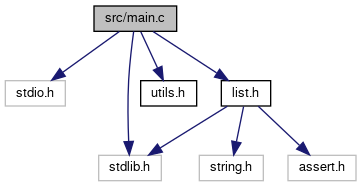
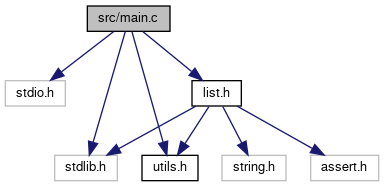
deploy: 990bebdba1529d52a58c7875b1290cd62b9eeb2c

diff --git a/list_8h_source.html b/list_8h_source.html
@@ -76,95 +76,99 @@ $(function() {
 <div class="line"><a name="l00015"></a><span class="lineno">   15</span>&#160;<span class="preprocessor">#include &lt;stdlib.h&gt;</span></div>
 <div class="line"><a name="l00016"></a><span class="lineno">   16</span>&#160;<span class="preprocessor">#include &lt;string.h&gt;</span></div>
 <div class="line"><a name="l00017"></a><span class="lineno">   17</span>&#160;<span class="preprocessor">#include &lt;assert.h&gt;</span></div>
-<div class="line"><a name="l00018"></a><span class="lineno">   18</span>&#160; </div>
-<div class="line"><a name="l00019"></a><span class="lineno">   19</span>&#160;<span class="preprocessor">#define INT_MIN -2147483647</span></div>
-<div class="line"><a name="l00020"></a><span class="lineno">   20</span>&#160; </div>
-<div class="line"><a name="l00022"></a><span class="lineno"><a class="line" href="structpack.html">   22</a></span>&#160;<span class="keyword">typedef</span> <span class="keyword">struct </span><a class="code" href="structpack.html">pack</a>{</div>
-<div class="line"><a name="l00023"></a><span class="lineno">   23</span>&#160;    <span class="keywordtype">int</span> avail; <span class="comment">//available?</span></div>
-<div class="line"><a name="l00024"></a><span class="lineno">   24</span>&#160;    <span class="keyword">struct </span><a class="code" href="structpack.html">pack</a>* prev;</div>
-<div class="line"><a name="l00025"></a><span class="lineno">   25</span>&#160;    <span class="keyword">struct </span><a class="code" href="structpack.html">pack</a>* next;</div>
-<div class="line"><a name="l00026"></a><span class="lineno">   26</span>&#160;    <span class="keywordtype">int</span> ID;</div>
-<div class="line"><a name="l00027"></a><span class="lineno"><a class="line" href="list_8h.html#a3586525e728a7be39766f22a4db66cb9">   27</a></span>&#160;} <a class="code" href="list_8h.html#a3586525e728a7be39766f22a4db66cb9">pack</a>;</div>
-<div class="line"><a name="l00028"></a><span class="lineno">   28</span>&#160; </div>
-<div class="line"><a name="l00029"></a><span class="lineno"><a class="line" href="structList.html">   29</a></span>&#160;<span class="keyword">typedef</span> <span class="keyword">struct </span><a class="code" href="structList.html">List</a>{</div>
-<div class="line"><a name="l00030"></a><span class="lineno">   30</span>&#160;    <a class="code" href="structpack.html">pack</a>* first;</div>
-<div class="line"><a name="l00031"></a><span class="lineno">   31</span>&#160;    <a class="code" href="structpack.html">pack</a>* last;</div>
-<div class="line"><a name="l00032"></a><span class="lineno">   32</span>&#160;} <a class="code" href="structList.html">List</a>;</div>
-<div class="line"><a name="l00033"></a><span class="lineno">   33</span>&#160; </div>
-<div class="line"><a name="l00034"></a><span class="lineno"><a class="line" href="structhnode.html">   34</a></span>&#160;<span class="keyword">typedef</span> <span class="keyword">struct </span><a class="code" href="structhnode.html">hnode</a>{</div>
-<div class="line"><a name="l00035"></a><span class="lineno">   35</span>&#160;    <span class="keyword">struct </span><a class="code" href="structhnode.html">hnode</a>* parent;</div>
-<div class="line"><a name="l00036"></a><span class="lineno">   36</span>&#160;    <span class="keyword">struct </span><a class="code" href="structhnode.html">hnode</a>* leaves[2]; </div>
-<div class="line"><a name="l00037"></a><span class="lineno">   37</span>&#160;    <a class="code" href="structpack.html">pack</a>* key;</div>
-<div class="line"><a name="l00038"></a><span class="lineno">   38</span>&#160;} <a class="code" href="structhnode.html">hnode</a>;</div>
-<div class="line"><a name="l00039"></a><span class="lineno">   39</span>&#160; </div>
-<div class="line"><a name="l00041"></a><span class="lineno"><a class="line" href="structprodLine.html">   41</a></span>&#160;<span class="keyword">typedef</span> <span class="keyword">struct</span>{</div>
-<div class="line"><a name="l00042"></a><span class="lineno">   42</span>&#160;    <a class="code" href="structList.html">List</a> list;</div>
-<div class="line"><a name="l00043"></a><span class="lineno">   43</span>&#160;    <a class="code" href="structhnode.html">hnode</a>* heap;</div>
-<div class="line"><a name="l00044"></a><span class="lineno">   44</span>&#160;    <span class="keywordtype">int</span> avail;</div>
-<div class="line"><a name="l00045"></a><span class="lineno">   45</span>&#160;} <a class="code" href="structprodLine.html">prodLine</a>;</div>
-<div class="line"><a name="l00046"></a><span class="lineno">   46</span>&#160; </div>
-<div class="line"><a name="l00047"></a><span class="lineno"><a class="line" href="structpackData.html">   47</a></span>&#160;<span class="keyword">typedef</span> <span class="keyword">struct</span>{</div>
-<div class="line"><a name="l00048"></a><span class="lineno">   48</span>&#160;    <span class="keywordtype">int</span> N_Package;</div>
-<div class="line"><a name="l00049"></a><span class="lineno">   49</span>&#160;    <span class="keywordtype">int</span> N_Lines;</div>
-<div class="line"><a name="l00050"></a><span class="lineno">   50</span>&#160;    <a class="code" href="structprodLine.html">prodLine</a>* lines;</div>
-<div class="line"><a name="l00051"></a><span class="lineno">   51</span>&#160;    <a class="code" href="structpack.html">pack</a>* packs;</div>
-<div class="line"><a name="l00052"></a><span class="lineno">   52</span>&#160;} <a class="code" href="structpackData.html">packData</a>;</div>
-<div class="line"><a name="l00053"></a><span class="lineno">   53</span>&#160; </div>
+<div class="line"><a name="l00018"></a><span class="lineno">   18</span>&#160;<span class="preprocessor">#include &quot;<a class="code" href="utils_8h.html">utils.h</a>&quot;</span></div>
+<div class="line"><a name="l00019"></a><span class="lineno">   19</span>&#160; </div>
+<div class="line"><a name="l00020"></a><span class="lineno">   20</span>&#160;<span class="preprocessor">#define INT_MIN -2147483647</span></div>
+<div class="line"><a name="l00021"></a><span class="lineno">   21</span>&#160; </div>
+<div class="line"><a name="l00023"></a><span class="lineno"><a class="line" href="structpack.html">   23</a></span>&#160;<span class="keyword">typedef</span> <span class="keyword">struct </span><a class="code" href="structpack.html">pack</a>{</div>
+<div class="line"><a name="l00024"></a><span class="lineno">   24</span>&#160;    <span class="keywordtype">int</span> avail; <span class="comment">//available?</span></div>
+<div class="line"><a name="l00025"></a><span class="lineno">   25</span>&#160;    <span class="keyword">struct </span><a class="code" href="structpack.html">pack</a>* prev;</div>
+<div class="line"><a name="l00026"></a><span class="lineno">   26</span>&#160;    <span class="keyword">struct </span><a class="code" href="structpack.html">pack</a>* next;</div>
+<div class="line"><a name="l00027"></a><span class="lineno">   27</span>&#160;    <span class="keywordtype">int</span> ID;</div>
+<div class="line"><a name="l00028"></a><span class="lineno"><a class="line" href="list_8h.html#a3586525e728a7be39766f22a4db66cb9">   28</a></span>&#160;} <a class="code" href="list_8h.html#a3586525e728a7be39766f22a4db66cb9">pack</a>;</div>
+<div class="line"><a name="l00029"></a><span class="lineno">   29</span>&#160; </div>
+<div class="line"><a name="l00030"></a><span class="lineno"><a class="line" href="structList.html">   30</a></span>&#160;<span class="keyword">typedef</span> <span class="keyword">struct </span><a class="code" href="structList.html">List</a>{</div>
+<div class="line"><a name="l00031"></a><span class="lineno">   31</span>&#160;    <a class="code" href="structpack.html">pack</a>* first;</div>
+<div class="line"><a name="l00032"></a><span class="lineno">   32</span>&#160;    <a class="code" href="structpack.html">pack</a>* last;</div>
+<div class="line"><a name="l00033"></a><span class="lineno">   33</span>&#160;} <a class="code" href="structList.html">List</a>;</div>
+<div class="line"><a name="l00034"></a><span class="lineno">   34</span>&#160; </div>
+<div class="line"><a name="l00035"></a><span class="lineno"><a class="line" href="structhnode.html">   35</a></span>&#160;<span class="keyword">typedef</span> <span class="keyword">struct </span><a class="code" href="structhnode.html">hnode</a>{</div>
+<div class="line"><a name="l00036"></a><span class="lineno">   36</span>&#160;    <span class="keyword">struct </span><a class="code" href="structhnode.html">hnode</a>* parent;</div>
+<div class="line"><a name="l00037"></a><span class="lineno">   37</span>&#160;    <span class="keyword">struct </span><a class="code" href="structhnode.html">hnode</a>* leaves[2]; </div>
+<div class="line"><a name="l00038"></a><span class="lineno">   38</span>&#160;    <a class="code" href="structpack.html">pack</a>* key;</div>
+<div class="line"><a name="l00039"></a><span class="lineno">   39</span>&#160;} <a class="code" href="structhnode.html">hnode</a>;</div>
+<div class="line"><a name="l00040"></a><span class="lineno">   40</span>&#160; </div>
+<div class="line"><a name="l00042"></a><span class="lineno"><a class="line" href="structprodLine.html">   42</a></span>&#160;<span class="keyword">typedef</span> <span class="keyword">struct</span>{</div>
+<div class="line"><a name="l00043"></a><span class="lineno">   43</span>&#160;    <a class="code" href="structList.html">List</a> list;</div>
+<div class="line"><a name="l00044"></a><span class="lineno">   44</span>&#160;    <a class="code" href="structhnode.html">hnode</a>* heap;</div>
+<div class="line"><a name="l00045"></a><span class="lineno">   45</span>&#160;    <span class="keywordtype">int</span> avail;</div>
+<div class="line"><a name="l00046"></a><span class="lineno">   46</span>&#160;} <a class="code" href="structprodLine.html">prodLine</a>;</div>
+<div class="line"><a name="l00047"></a><span class="lineno">   47</span>&#160; </div>
+<div class="line"><a name="l00048"></a><span class="lineno"><a class="line" href="structpackData.html">   48</a></span>&#160;<span class="keyword">typedef</span> <span class="keyword">struct</span>{</div>
+<div class="line"><a name="l00049"></a><span class="lineno">   49</span>&#160;    <span class="keywordtype">int</span> N_Package;</div>
+<div class="line"><a name="l00050"></a><span class="lineno">   50</span>&#160;    <span class="keywordtype">int</span> N_Lines;</div>
+<div class="line"><a name="l00051"></a><span class="lineno">   51</span>&#160;    <a class="code" href="structprodLine.html">prodLine</a>* lines;</div>
+<div class="line"><a name="l00052"></a><span class="lineno">   52</span>&#160;    <a class="code" href="structpack.html">pack</a>* packs;</div>
+<div class="line"><a name="l00053"></a><span class="lineno">   53</span>&#160;} <a class="code" href="structpackData.html">packData</a>;</div>
 <div class="line"><a name="l00054"></a><span class="lineno">   54</span>&#160; </div>
-<div class="line"><a name="l00055"></a><span class="lineno">   55</span>&#160;<span class="comment">// Initiation and Deletion</span></div>
-<div class="line"><a name="l00056"></a><span class="lineno">   56</span>&#160; </div>
-<div class="line"><a name="l00064"></a><span class="lineno">   64</span>&#160;<a class="code" href="structpackData.html">packData</a> <a class="code" href="list_8h.html#aa11f23d0e48c1d0788c6a8930a252b9c">init_packData</a>(<span class="keywordtype">int</span> n, <span class="keywordtype">int</span> l);</div>
-<div class="line"><a name="l00065"></a><span class="lineno">   65</span>&#160;<span class="keywordtype">void</span> kill_packData(<a class="code" href="structpackData.html">packData</a>);</div>
-<div class="line"><a name="l00066"></a><span class="lineno">   66</span>&#160; </div>
-<div class="line"><a name="l00067"></a><span class="lineno">   67</span>&#160;<span class="comment">// Data management</span></div>
-<div class="line"><a name="l00068"></a><span class="lineno">   68</span>&#160;<a class="code" href="structpack.html">pack</a> PushPack(<a class="code" href="structpackData.html">packData</a>, <span class="keywordtype">int</span> i);</div>
-<div class="line"><a name="l00069"></a><span class="lineno">   69</span>&#160;<a class="code" href="structpack.html">pack</a> MergeLines(<a class="code" href="structpackData.html">packData</a>, <span class="keywordtype">int</span> dst, <span class="keywordtype">int</span> src);</div>
-<div class="line"><a name="l00070"></a><span class="lineno">   70</span>&#160; </div>
-<div class="line"><a name="l00071"></a><span class="lineno">   71</span>&#160;<span class="comment">//Pop</span></div>
-<div class="line"><a name="l00072"></a><span class="lineno">   72</span>&#160;<a class="code" href="structpack.html">pack</a> PopFirstPack(<a class="code" href="structpackData.html">packData</a>, <span class="keywordtype">int</span> i);</div>
-<div class="line"><a name="l00073"></a><span class="lineno">   73</span>&#160;<a class="code" href="structpack.html">pack</a> PopLastPack(<a class="code" href="structpackData.html">packData</a>, <span class="keywordtype">int</span> i);</div>
-<div class="line"><a name="l00074"></a><span class="lineno">   74</span>&#160;<a class="code" href="structpack.html">pack</a> PopMaxPack(<a class="code" href="structpackData.html">packData</a>, <span class="keywordtype">int</span> i);</div>
-<div class="line"><a name="l00075"></a><span class="lineno">   75</span>&#160; </div>
-<div class="line"><a name="l00076"></a><span class="lineno">   76</span>&#160;<span class="comment">// Peak Data</span></div>
-<div class="line"><a name="l00077"></a><span class="lineno">   77</span>&#160;<a class="code" href="structpack.html">pack</a> PeakFirstPack(<a class="code" href="structpackData.html">packData</a>, <span class="keywordtype">int</span> i);</div>
-<div class="line"><a name="l00078"></a><span class="lineno">   78</span>&#160;<a class="code" href="structpack.html">pack</a> PeakLastPack(<a class="code" href="structpackData.html">packData</a>, <span class="keywordtype">int</span> i);</div>
-<div class="line"><a name="l00079"></a><span class="lineno">   79</span>&#160;<a class="code" href="structpack.html">pack</a> PeakMaxPack(<a class="code" href="structpackData.html">packData</a>, <span class="keywordtype">int</span> i);</div>
-<div class="line"><a name="l00080"></a><span class="lineno">   80</span>&#160; </div>
+<div class="line"><a name="l00055"></a><span class="lineno">   55</span>&#160; </div>
+<div class="line"><a name="l00056"></a><span class="lineno">   56</span>&#160;<span class="comment">// Initiation and Deletion</span></div>
+<div class="line"><a name="l00057"></a><span class="lineno">   57</span>&#160; </div>
+<div class="line"><a name="l00065"></a><span class="lineno">   65</span>&#160;<a class="code" href="structpackData.html">packData</a> <a class="code" href="list_8h.html#aa11f23d0e48c1d0788c6a8930a252b9c">init_packData</a>(<span class="keywordtype">int</span> n, <span class="keywordtype">int</span> l);</div>
+<div class="line"><a name="l00066"></a><span class="lineno">   66</span>&#160;<span class="keywordtype">void</span> kill_packData(<a class="code" href="structpackData.html">packData</a>);</div>
+<div class="line"><a name="l00067"></a><span class="lineno">   67</span>&#160; </div>
+<div class="line"><a name="l00068"></a><span class="lineno">   68</span>&#160;<span class="comment">// Data management</span></div>
+<div class="line"><a name="l00069"></a><span class="lineno">   69</span>&#160;<a class="code" href="structpack.html">pack</a> PushPack(<a class="code" href="structpackData.html">packData</a>, <span class="keywordtype">int</span> i);</div>
+<div class="line"><a name="l00070"></a><span class="lineno">   70</span>&#160;<a class="code" href="structpack.html">pack</a> MergeLines(<a class="code" href="structpackData.html">packData</a>, <span class="keywordtype">int</span> dst, <span class="keywordtype">int</span> src);</div>
+<div class="line"><a name="l00071"></a><span class="lineno">   71</span>&#160; </div>
+<div class="line"><a name="l00072"></a><span class="lineno">   72</span>&#160;<span class="comment">//Pop</span></div>
+<div class="line"><a name="l00073"></a><span class="lineno">   73</span>&#160;<a class="code" href="structpack.html">pack</a> PopFirstPack(<a class="code" href="structpackData.html">packData</a>, <span class="keywordtype">int</span> i);</div>
+<div class="line"><a name="l00074"></a><span class="lineno">   74</span>&#160;<a class="code" href="structpack.html">pack</a> PopLastPack(<a class="code" href="structpackData.html">packData</a>, <span class="keywordtype">int</span> i);</div>
+<div class="line"><a name="l00075"></a><span class="lineno">   75</span>&#160;<a class="code" href="structpack.html">pack</a> PopMaxPack(<a class="code" href="structpackData.html">packData</a>, <span class="keywordtype">int</span> i);</div>
+<div class="line"><a name="l00076"></a><span class="lineno">   76</span>&#160; </div>
+<div class="line"><a name="l00077"></a><span class="lineno">   77</span>&#160;<span class="comment">// Peak Data</span></div>
+<div class="line"><a name="l00078"></a><span class="lineno">   78</span>&#160;<a class="code" href="structpack.html">pack</a> PeakFirstPack(<a class="code" href="structpackData.html">packData</a>, <span class="keywordtype">int</span> i);</div>
+<div class="line"><a name="l00079"></a><span class="lineno">   79</span>&#160;<a class="code" href="structpack.html">pack</a> PeakLastPack(<a class="code" href="structpackData.html">packData</a>, <span class="keywordtype">int</span> i);</div>
+<div class="line"><a name="l00080"></a><span class="lineno">   80</span>&#160;<a class="code" href="structpack.html">pack</a> PeakMaxPack(<a class="code" href="structpackData.html">packData</a>, <span class="keywordtype">int</span> i);</div>
 <div class="line"><a name="l00081"></a><span class="lineno">   81</span>&#160; </div>
-<div class="line"><a name="l00082"></a><span class="lineno">   82</span>&#160;<span class="comment">// Heap operation</span></div>
-<div class="line"><a name="l00083"></a><span class="lineno">   83</span>&#160;<a class="code" href="structhnode.html">hnode</a>* _insertHeap(<a class="code" href="structhnode.html">hnode</a>* root, <a class="code" href="structpack.html">pack</a>*);</div>
-<div class="line"><a name="l00084"></a><span class="lineno">   84</span>&#160;<span class="keywordtype">int</span> _popMaxHeap(<a class="code" href="structhnode.html">hnode</a>* root);</div>
-<div class="line"><a name="l00085"></a><span class="lineno">   85</span>&#160;<span class="keywordtype">void</span> _mergeHeap(<a class="code" href="structhnode.html">hnode</a>* rootDst, <a class="code" href="structhnode.html">hnode</a>* rootSrc);</div>
-<div class="line"><a name="l00086"></a><span class="lineno">   86</span>&#160;<a class="code" href="structhnode.html">hnode</a>* create_node(<a class="code" href="structhnode.html">hnode</a>* parent, <a class="code" href="structpack.html">pack</a>* key);</div>
-<div class="line"><a name="l00088"></a><span class="lineno">   88</span>&#160;<span class="keywordtype">int</span> <a class="code" href="list_8h.html#a7afb1b709ad6d00cd41ac19e8cd9e148">_findNullLeave</a>(<a class="code" href="structhnode.html">hnode</a>* node);</div>
-<div class="line"><a name="l00089"></a><span class="lineno">   89</span>&#160;<span class="keywordtype">void</span> _killHeap(<a class="code" href="structhnode.html">hnode</a>* root);</div>
-<div class="line"><a name="l00090"></a><span class="lineno">   90</span>&#160; </div>
-<div class="line"><a name="l00091"></a><span class="lineno">   91</span>&#160;<span class="comment">//Linked list </span></div>
-<div class="line"><a name="l00092"></a><span class="lineno">   92</span>&#160; </div>
-<div class="line"><a name="l00093"></a><span class="lineno">   93</span>&#160;<span class="keywordtype">void</span> _insertlist(<a class="code" href="structList.html">List</a>*, <a class="code" href="structpack.html">pack</a>*);</div>
-<div class="line"><a name="l00094"></a><span class="lineno">   94</span>&#160;<span class="keywordtype">void</span> _mergelist(<a class="code" href="structList.html">List</a>* dst, <a class="code" href="structList.html">List</a>* src);</div>
-<div class="line"><a name="l00100"></a><span class="lineno">  100</span>&#160;<span class="keywordtype">int</span> <a class="code" href="list_8h.html#a41622136ec076e314e00e9fbe9512c61">_popFirst</a>(<a class="code" href="structList.html">List</a>*);</div>
-<div class="line"><a name="l00104"></a><span class="lineno">  104</span>&#160;<span class="keywordtype">int</span> <a class="code" href="list_8h.html#a97bf806736c5cf75cbc2b56814e66e2b">_popLast</a>(<a class="code" href="structList.html">List</a>*);</div>
-<div class="line"><a name="l00105"></a><span class="lineno">  105</span>&#160; </div>
-<div class="line"><a name="l00106"></a><span class="lineno">  106</span>&#160; </div>
-<div class="line"><a name="l00107"></a><span class="lineno">  107</span>&#160;<span class="comment">//Struct</span></div>
-<div class="line"><a name="l00108"></a><span class="lineno">  108</span>&#160;<a class="code" href="structpack.html">pack</a> getNullPack(<span class="keywordtype">void</span>);</div>
-<div class="line"><a name="l00109"></a><span class="lineno">  109</span>&#160;<a class="code" href="structprodLine.html">prodLine</a> getNullProdLine(<span class="keywordtype">void</span>);</div>
-<div class="line"><a name="l00110"></a><span class="lineno">  110</span>&#160; </div>
-<div class="line"><a name="l00111"></a><span class="lineno">  111</span>&#160; </div>
-<div class="line"><a name="l00112"></a><span class="lineno">  112</span>&#160; </div>
+<div class="line"><a name="l00082"></a><span class="lineno">   82</span>&#160; </div>
+<div class="line"><a name="l00083"></a><span class="lineno">   83</span>&#160;<span class="comment">// Heap operation</span></div>
+<div class="line"><a name="l00084"></a><span class="lineno">   84</span>&#160;<a class="code" href="structhnode.html">hnode</a>* _insertHeap(<a class="code" href="structhnode.html">hnode</a>* root, <a class="code" href="structpack.html">pack</a>*);</div>
+<div class="line"><a name="l00085"></a><span class="lineno">   85</span>&#160;<span class="keywordtype">int</span> _popMaxHeap(<a class="code" href="structhnode.html">hnode</a>* root);</div>
+<div class="line"><a name="l00086"></a><span class="lineno">   86</span>&#160;<span class="keywordtype">void</span> _mergeHeap(<a class="code" href="structhnode.html">hnode</a>* rootDst, <a class="code" href="structhnode.html">hnode</a>* rootSrc);</div>
+<div class="line"><a name="l00087"></a><span class="lineno">   87</span>&#160;<a class="code" href="structhnode.html">hnode</a>* create_node(<a class="code" href="structhnode.html">hnode</a>* parent, <a class="code" href="structpack.html">pack</a>* key);</div>
+<div class="line"><a name="l00089"></a><span class="lineno">   89</span>&#160;<span class="keywordtype">int</span> <a class="code" href="list_8h.html#a7afb1b709ad6d00cd41ac19e8cd9e148">_findNullLeave</a>(<a class="code" href="structhnode.html">hnode</a>* node);</div>
+<div class="line"><a name="l00090"></a><span class="lineno">   90</span>&#160;<span class="keywordtype">int</span> _findActLeave(<a class="code" href="structhnode.html">hnode</a>* node);</div>
+<div class="line"><a name="l00091"></a><span class="lineno">   91</span>&#160;<span class="keywordtype">void</span> _swapPackageHeap(<a class="code" href="structhnode.html">hnode</a>* a, <a class="code" href="structhnode.html">hnode</a>* b);</div>
+<div class="line"><a name="l00092"></a><span class="lineno">   92</span>&#160;<span class="keywordtype">void</span> _killHeap(<a class="code" href="structhnode.html">hnode</a>* root);</div>
+<div class="line"><a name="l00093"></a><span class="lineno">   93</span>&#160; </div>
+<div class="line"><a name="l00094"></a><span class="lineno">   94</span>&#160;<span class="comment">//Linked list </span></div>
+<div class="line"><a name="l00095"></a><span class="lineno">   95</span>&#160; </div>
+<div class="line"><a name="l00096"></a><span class="lineno">   96</span>&#160;<span class="keywordtype">void</span> _insertlist(<a class="code" href="structList.html">List</a>*, <a class="code" href="structpack.html">pack</a>*);</div>
+<div class="line"><a name="l00097"></a><span class="lineno">   97</span>&#160;<span class="keywordtype">void</span> _mergelist(<a class="code" href="structList.html">List</a>* dst, <a class="code" href="structList.html">List</a>* src);</div>
+<div class="line"><a name="l00103"></a><span class="lineno">  103</span>&#160;<span class="keywordtype">int</span> <a class="code" href="list_8h.html#a41622136ec076e314e00e9fbe9512c61">_popFirst</a>(<a class="code" href="structList.html">List</a>*);</div>
+<div class="line"><a name="l00107"></a><span class="lineno">  107</span>&#160;<span class="keywordtype">int</span> <a class="code" href="list_8h.html#a97bf806736c5cf75cbc2b56814e66e2b">_popLast</a>(<a class="code" href="structList.html">List</a>*);</div>
+<div class="line"><a name="l00108"></a><span class="lineno">  108</span>&#160; </div>
+<div class="line"><a name="l00109"></a><span class="lineno">  109</span>&#160; </div>
+<div class="line"><a name="l00110"></a><span class="lineno">  110</span>&#160;<span class="comment">//Struct</span></div>
+<div class="line"><a name="l00111"></a><span class="lineno">  111</span>&#160;<a class="code" href="structpack.html">pack</a> getNullPack(<span class="keywordtype">void</span>);</div>
+<div class="line"><a name="l00112"></a><span class="lineno">  112</span>&#160;<a class="code" href="structprodLine.html">prodLine</a> getNullProdLine(<span class="keywordtype">void</span>);</div>
 <div class="line"><a name="l00113"></a><span class="lineno">  113</span>&#160; </div>
-<div class="line"><a name="l00114"></a><span class="lineno">  114</span>&#160;<span class="preprocessor">#endif </span></div>
+<div class="line"><a name="l00114"></a><span class="lineno">  114</span>&#160; </div>
+<div class="line"><a name="l00115"></a><span class="lineno">  115</span>&#160; </div>
+<div class="line"><a name="l00116"></a><span class="lineno">  116</span>&#160; </div>
+<div class="line"><a name="l00117"></a><span class="lineno">  117</span>&#160;<span class="preprocessor">#endif </span></div>
 <div class="ttc" id="alist_8h_html_a3586525e728a7be39766f22a4db66cb9"><div class="ttname"><a href="list_8h.html#a3586525e728a7be39766f22a4db66cb9">pack</a></div><div class="ttdeci">struct pack pack</div></div>
-<div class="ttc" id="alist_8h_html_a41622136ec076e314e00e9fbe9512c61"><div class="ttname"><a href="list_8h.html#a41622136ec076e314e00e9fbe9512c61">_popFirst</a></div><div class="ttdeci">int _popFirst(List *)</div><div class="ttdoc">Pop first item. Set popped item.avail (pack) to zero.</div><div class="ttdef"><b>Definition:</b> list.c:179</div></div>
-<div class="ttc" id="alist_8h_html_a7afb1b709ad6d00cd41ac19e8cd9e148"><div class="ttname"><a href="list_8h.html#a7afb1b709ad6d00cd41ac19e8cd9e148">_findNullLeave</a></div><div class="ttdeci">int _findNullLeave(hnode *node)</div><div class="ttdef"><b>Definition:</b> list.c:106</div></div>
-<div class="ttc" id="alist_8h_html_a97bf806736c5cf75cbc2b56814e66e2b"><div class="ttname"><a href="list_8h.html#a97bf806736c5cf75cbc2b56814e66e2b">_popLast</a></div><div class="ttdeci">int _popLast(List *)</div><div class="ttdoc">Similar to _popFirst .</div><div class="ttdef"><b>Definition:</b> list.c:202</div></div>
+<div class="ttc" id="alist_8h_html_a41622136ec076e314e00e9fbe9512c61"><div class="ttname"><a href="list_8h.html#a41622136ec076e314e00e9fbe9512c61">_popFirst</a></div><div class="ttdeci">int _popFirst(List *)</div><div class="ttdoc">Pop first item. Set popped item.avail (pack) to zero.</div><div class="ttdef"><b>Definition:</b> list.c:221</div></div>
+<div class="ttc" id="alist_8h_html_a7afb1b709ad6d00cd41ac19e8cd9e148"><div class="ttname"><a href="list_8h.html#a7afb1b709ad6d00cd41ac19e8cd9e148">_findNullLeave</a></div><div class="ttdeci">int _findNullLeave(hnode *node)</div><div class="ttdef"><b>Definition:</b> list.c:130</div></div>
+<div class="ttc" id="alist_8h_html_a97bf806736c5cf75cbc2b56814e66e2b"><div class="ttname"><a href="list_8h.html#a97bf806736c5cf75cbc2b56814e66e2b">_popLast</a></div><div class="ttdeci">int _popLast(List *)</div><div class="ttdoc">Similar to _popFirst .</div><div class="ttdef"><b>Definition:</b> list.c:244</div></div>
 <div class="ttc" id="alist_8h_html_aa11f23d0e48c1d0788c6a8930a252b9c"><div class="ttname"><a href="list_8h.html#aa11f23d0e48c1d0788c6a8930a252b9c">init_packData</a></div><div class="ttdeci">packData init_packData(int n, int l)</div><div class="ttdoc">Initiate a package management problem.</div><div class="ttdef"><b>Definition:</b> list.c:3</div></div>
-<div class="ttc" id="astructList_html"><div class="ttname"><a href="structList.html">List</a></div><div class="ttdef"><b>Definition:</b> list.h:29</div></div>
-<div class="ttc" id="astructhnode_html"><div class="ttname"><a href="structhnode.html">hnode</a></div><div class="ttdef"><b>Definition:</b> list.h:34</div></div>
-<div class="ttc" id="astructpackData_html"><div class="ttname"><a href="structpackData.html">packData</a></div><div class="ttdef"><b>Definition:</b> list.h:47</div></div>
-<div class="ttc" id="astructpack_html"><div class="ttname"><a href="structpack.html">pack</a></div><div class="ttdef"><b>Definition:</b> list.h:22</div></div>
-<div class="ttc" id="astructprodLine_html"><div class="ttname"><a href="structprodLine.html">prodLine</a></div><div class="ttdef"><b>Definition:</b> list.h:41</div></div>
+<div class="ttc" id="astructList_html"><div class="ttname"><a href="structList.html">List</a></div><div class="ttdef"><b>Definition:</b> list.h:30</div></div>
+<div class="ttc" id="astructhnode_html"><div class="ttname"><a href="structhnode.html">hnode</a></div><div class="ttdef"><b>Definition:</b> list.h:35</div></div>
+<div class="ttc" id="astructpackData_html"><div class="ttname"><a href="structpackData.html">packData</a></div><div class="ttdef"><b>Definition:</b> list.h:48</div></div>
+<div class="ttc" id="astructpack_html"><div class="ttname"><a href="structpack.html">pack</a></div><div class="ttdef"><b>Definition:</b> list.h:23</div></div>
+<div class="ttc" id="astructprodLine_html"><div class="ttname"><a href="structprodLine.html">prodLine</a></div><div class="ttdef"><b>Definition:</b> list.h:42</div></div>
+<div class="ttc" id="autils_8h_html"><div class="ttname"><a href="utils_8h.html">utils.h</a></div><div class="ttdoc">General Utilities for C language.</div></div>
 </div><!-- fragment --></div><!-- contents -->
 <!-- start footer part -->
 <hr class="footer"/><address class="footer"><small>

diff --git a/list_8h.html b/list_8h.html
@@ -77,15 +77,17 @@ $(function() {
 <div class="textblock"><code>#include &lt;stdlib.h&gt;</code><br />
 <code>#include &lt;string.h&gt;</code><br />
 <code>#include &lt;assert.h&gt;</code><br />
+<code>#include &quot;<a class="el" href="utils_8h_source.html">utils.h</a>&quot;</code><br />
 </div><div class="textblock"><div class="dynheader">
 Include dependency graph for list.h:</div>
 <div class="dyncontent">
 <div class="center"><img src="list_8h__incl.png" border="0" usemap="#asrc_2list_8h" alt=""/></div>
 <map name="asrc_2list_8h" id="asrc_2list_8h">
-<area shape="rect" title=" " alt="" coords="89,5,160,32"/>
+<area shape="rect" title=" " alt="" coords="135,5,205,32"/>
 <area shape="rect" title=" " alt="" coords="5,80,68,107"/>
 <area shape="rect" title=" " alt="" coords="93,80,157,107"/>
 <area shape="rect" title=" " alt="" coords="181,80,249,107"/>
+<area shape="rect" href="utils_8h.html" title="General Utilities for C language." alt="" coords="274,80,330,107"/>
 </map>
 </div>
 </div><div class="textblock"><div class="dynheader">
@@ -177,6 +179,12 @@ void&#160;</td><td class="memItemRight" valign="bottom"><b>_mergeHeap</b> (<a cl
 <tr class="separator:aac72842d1ea31e89fe098a7dbf7e10b2"><td class="memSeparator" colspan="2">&#160;</td></tr>
 <tr class="memitem:a7afb1b709ad6d00cd41ac19e8cd9e148"><td class="memItemLeft" align="right" valign="top">int&#160;</td><td class="memItemRight" valign="bottom"><a class="el" href="list_8h.html#a7afb1b709ad6d00cd41ac19e8cd9e148">_findNullLeave</a> (<a class="el" href="structhnode.html">hnode</a> *node)</td></tr>
 <tr class="separator:a7afb1b709ad6d00cd41ac19e8cd9e148"><td class="memSeparator" colspan="2">&#160;</td></tr>
+<tr class="memitem:a15b48bf3e7ef2bc54604aa6705ddbcea"><td class="memItemLeft" align="right" valign="top"><a id="a15b48bf3e7ef2bc54604aa6705ddbcea"></a>
+int&#160;</td><td class="memItemRight" valign="bottom"><b>_findActLeave</b> (<a class="el" href="structhnode.html">hnode</a> *node)</td></tr>
+<tr class="separator:a15b48bf3e7ef2bc54604aa6705ddbcea"><td class="memSeparator" colspan="2">&#160;</td></tr>
+<tr class="memitem:a6087b5874d80953b0e8c6ad2dea18e91"><td class="memItemLeft" align="right" valign="top"><a id="a6087b5874d80953b0e8c6ad2dea18e91"></a>
+void&#160;</td><td class="memItemRight" valign="bottom"><b>_swapPackageHeap</b> (<a class="el" href="structhnode.html">hnode</a> *a, <a class="el" href="structhnode.html">hnode</a> *b)</td></tr>
+<tr class="separator:a6087b5874d80953b0e8c6ad2dea18e91"><td class="memSeparator" colspan="2">&#160;</td></tr>
 <tr class="memitem:a1b1e9d4025ceb5094c788a86e22d1da4"><td class="memItemLeft" align="right" valign="top"><a id="a1b1e9d4025ceb5094c788a86e22d1da4"></a>
 void&#160;</td><td class="memItemRight" valign="bottom"><b>_killHeap</b> (<a class="el" href="structhnode.html">hnode</a> *root)</td></tr>
 <tr class="separator:a1b1e9d4025ceb5094c788a86e22d1da4"><td class="memSeparator" colspan="2">&#160;</td></tr>

diff --git a/test__list_8h_source.html b/test__list_8h_source.html
@@ -126,10 +126,10 @@ $(function() {
 <div class="line"><a name="l00055"></a><span class="lineno">   55</span>&#160; </div>
 <div class="line"><a name="l00056"></a><span class="lineno">   56</span>&#160;<span class="preprocessor">#endif</span></div>
 <div class="ttc" id="alist_8h_html"><div class="ttname"><a href="list_8h.html">list.h</a></div></div>
-<div class="ttc" id="alist_8h_html_a41622136ec076e314e00e9fbe9512c61"><div class="ttname"><a href="list_8h.html#a41622136ec076e314e00e9fbe9512c61">_popFirst</a></div><div class="ttdeci">int _popFirst(List *)</div><div class="ttdoc">Pop first item. Set popped item.avail (pack) to zero.</div><div class="ttdef"><b>Definition:</b> list.c:179</div></div>
-<div class="ttc" id="alist_8h_html_a97bf806736c5cf75cbc2b56814e66e2b"><div class="ttname"><a href="list_8h.html#a97bf806736c5cf75cbc2b56814e66e2b">_popLast</a></div><div class="ttdeci">int _popLast(List *)</div><div class="ttdoc">Similar to _popFirst .</div><div class="ttdef"><b>Definition:</b> list.c:202</div></div>
+<div class="ttc" id="alist_8h_html_a41622136ec076e314e00e9fbe9512c61"><div class="ttname"><a href="list_8h.html#a41622136ec076e314e00e9fbe9512c61">_popFirst</a></div><div class="ttdeci">int _popFirst(List *)</div><div class="ttdoc">Pop first item. Set popped item.avail (pack) to zero.</div><div class="ttdef"><b>Definition:</b> list.c:221</div></div>
+<div class="ttc" id="alist_8h_html_a97bf806736c5cf75cbc2b56814e66e2b"><div class="ttname"><a href="list_8h.html#a97bf806736c5cf75cbc2b56814e66e2b">_popLast</a></div><div class="ttdeci">int _popLast(List *)</div><div class="ttdoc">Similar to _popFirst .</div><div class="ttdef"><b>Definition:</b> list.c:244</div></div>
 <div class="ttc" id="alist_8h_html_aa11f23d0e48c1d0788c6a8930a252b9c"><div class="ttname"><a href="list_8h.html#aa11f23d0e48c1d0788c6a8930a252b9c">init_packData</a></div><div class="ttdeci">packData init_packData(int n, int l)</div><div class="ttdoc">Initiate a package management problem.</div><div class="ttdef"><b>Definition:</b> list.c:3</div></div>
-<div class="ttc" id="astructpackData_html"><div class="ttname"><a href="structpackData.html">packData</a></div><div class="ttdef"><b>Definition:</b> list.h:47</div></div>
+<div class="ttc" id="astructpackData_html"><div class="ttname"><a href="structpackData.html">packData</a></div><div class="ttdef"><b>Definition:</b> list.h:48</div></div>
 </div><!-- fragment --></div><!-- contents -->
 <!-- start footer part -->
 <hr class="footer"/><address class="footer"><small>

diff --git a/main_8c.html b/main_8c.html
@@ -80,13 +80,13 @@ Include dependency graph for main.c:</div>
 <div class="dyncontent">
 <div class="center"><img src="main_8c__incl.png" border="0" usemap="#asrc_2main_8c" alt=""/></div>
 <map name="asrc_2main_8c" id="asrc_2main_8c">
-<area shape="rect" title=" " alt="" coords="94,5,177,32"/>
+<area shape="rect" title=" " alt="" coords="87,5,170,32"/>
 <area shape="rect" title=" " alt="" coords="5,80,65,107"/>
-<area shape="rect" title=" " alt="" coords="99,155,161,181"/>
-<area shape="rect" href="utils_8h.html" title="General Utilities for C language." alt="" coords="141,80,197,107"/>
-<area shape="rect" href="list_8h.html" title=" " alt="" coords="221,80,271,107"/>
-<area shape="rect" title=" " alt="" coords="199,155,263,181"/>
-<area shape="rect" title=" " alt="" coords="288,155,356,181"/>
+<area shape="rect" title=" " alt="" coords="55,155,117,181"/>
+<area shape="rect" href="utils_8h.html" title="General Utilities for C language." alt="" coords="142,155,198,181"/>
+<area shape="rect" href="list_8h.html" title=" " alt="" coords="192,80,241,107"/>
+<area shape="rect" title=" " alt="" coords="222,155,286,181"/>
+<area shape="rect" title=" " alt="" coords="311,155,379,181"/>
 </map>
 </div>
 </div><table class="memberdecls">

diff --git a/utils_8h.html b/utils_8h.html
@@ -79,9 +79,11 @@ This graph shows which files directly or indirectly include this file:</div>
 <div class="dyncontent">
 <div class="center"><img src="utils_8h__dep__incl.png" border="0" usemap="#asrc_2utils_8hdep" alt=""/></div>
 <map name="asrc_2utils_8hdep" id="asrc_2utils_8hdep">
-<area shape="rect" title="General Utilities for C language." alt="" coords="67,5,146,32"/>
-<area shape="rect" href="main_8c.html" title=" " alt="" coords="5,80,88,107"/>
-<area shape="rect" href="test__utils_8h_source.html" title=" " alt="" coords="113,80,223,107"/>
+<area shape="rect" title="General Utilities for C language." alt="" coords="81,5,159,32"/>
+<area shape="rect" href="list_8h.html" title=" " alt="" coords="85,80,155,107"/>
+<area shape="rect" href="main_8c.html" title=" " alt="" coords="5,155,88,181"/>
+<area shape="rect" href="test__utils_8h_source.html" title=" " alt="" coords="179,80,290,107"/>
+<area shape="rect" href="test__list_8h_source.html" title=" " alt="" coords="112,155,216,181"/>
 </map>
 </div>
 </div>
